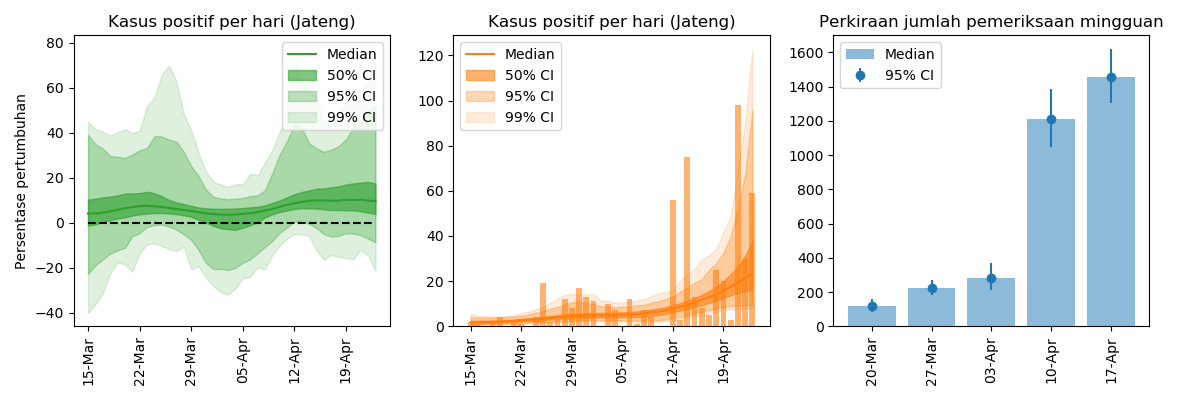
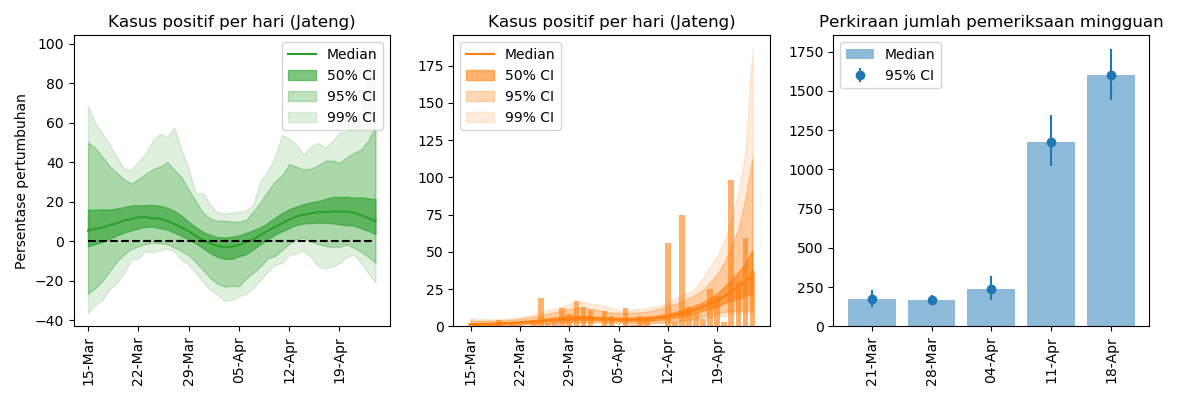
Update idcovid19

diff --git a/idcovid19.md b/idcovid19.md
@@ -8,47 +8,47 @@ permalink: /idcovid19/
 ## Apakah kurva penyebaran telah turun?
 
 Sumber data: [KawalCOVID19](https://kawalcovid19.id/)<br/>
-Diperbarui pada: 23/04/2020<br/>
+Diperbarui pada: 24/04/2020<br/>
 Metode dapat dilihat di [sini]({{ site.baseurl }}/2020/04/17/COVID19-has-the-curve-flatten/)
 
 #### Indonesia
 
-Probabilitas menurun: \\(38\%\\)<br/>
+Probabilitas menurun: \\(27\%\\)<br/>
 Hasil: kurva terlihat turun, tapi jumlah tes juga menurun
 
 <img title="Indonesia" src="{{ site.baseurl }}/assets/idcovid19-daily/id_new_cases.png" width="100%"/>
 
 #### Jakarta
 
-Probabilitas menurun: \\(28\%\\)<br/>
+Probabilitas menurun: \\(19\%\\)<br/>
 Hasil: kurva terlihat turun, tapi jumlah tes juga menurun
 
 <img title="Jakarta" src="{{ site.baseurl }}/assets/idcovid19-daily/idprov_jakarta_new_cases.png" width="100%"/>
 
 #### Jabar
 
-Probabilitas menurun: \\(69\%\\)<br/>
-Hasil: ada indikasi penurunan, tapi belum dapat dipastikan
+Probabilitas menurun: \\(24\%\\)<br/>
+Hasil: belum dapat disimpulkan
 
 <img title="Jabar" src="{{ site.baseurl }}/assets/idcovid19-daily/idprov_jabar_new_cases.png" width="100%"/>
 
 #### Jatim
 
-Probabilitas menurun: \\(14\%\\)<br/>
+Probabilitas menurun: \\(13\%\\)<br/>
 Hasil: belum dapat disimpulkan
 
 <img title="Jatim" src="{{ site.baseurl }}/assets/idcovid19-daily/idprov_jatim_new_cases.png" width="100%"/>
 
 #### Jateng
 
-Probabilitas menurun: \\(11\%\\)<br/>
+Probabilitas menurun: \\(16\%\\)<br/>
 Hasil: belum dapat disimpulkan
 
 <img title="Jateng" src="{{ site.baseurl }}/assets/idcovid19-daily/idprov_jateng_new_cases.png" width="100%"/>
 
 #### Sulsel
 
-Probabilitas menurun: \\(38\%\\)<br/>
-Hasil: kurva terlihat turun, tapi jumlah tes juga menurun
+Probabilitas menurun: \\(10\%\\)<br/>
+Hasil: belum dapat disimpulkan
 
 <img title="Sulsel" src="{{ site.baseurl }}/assets/idcovid19-daily/idprov_sulsel_new_cases.png" width="100%"/>
